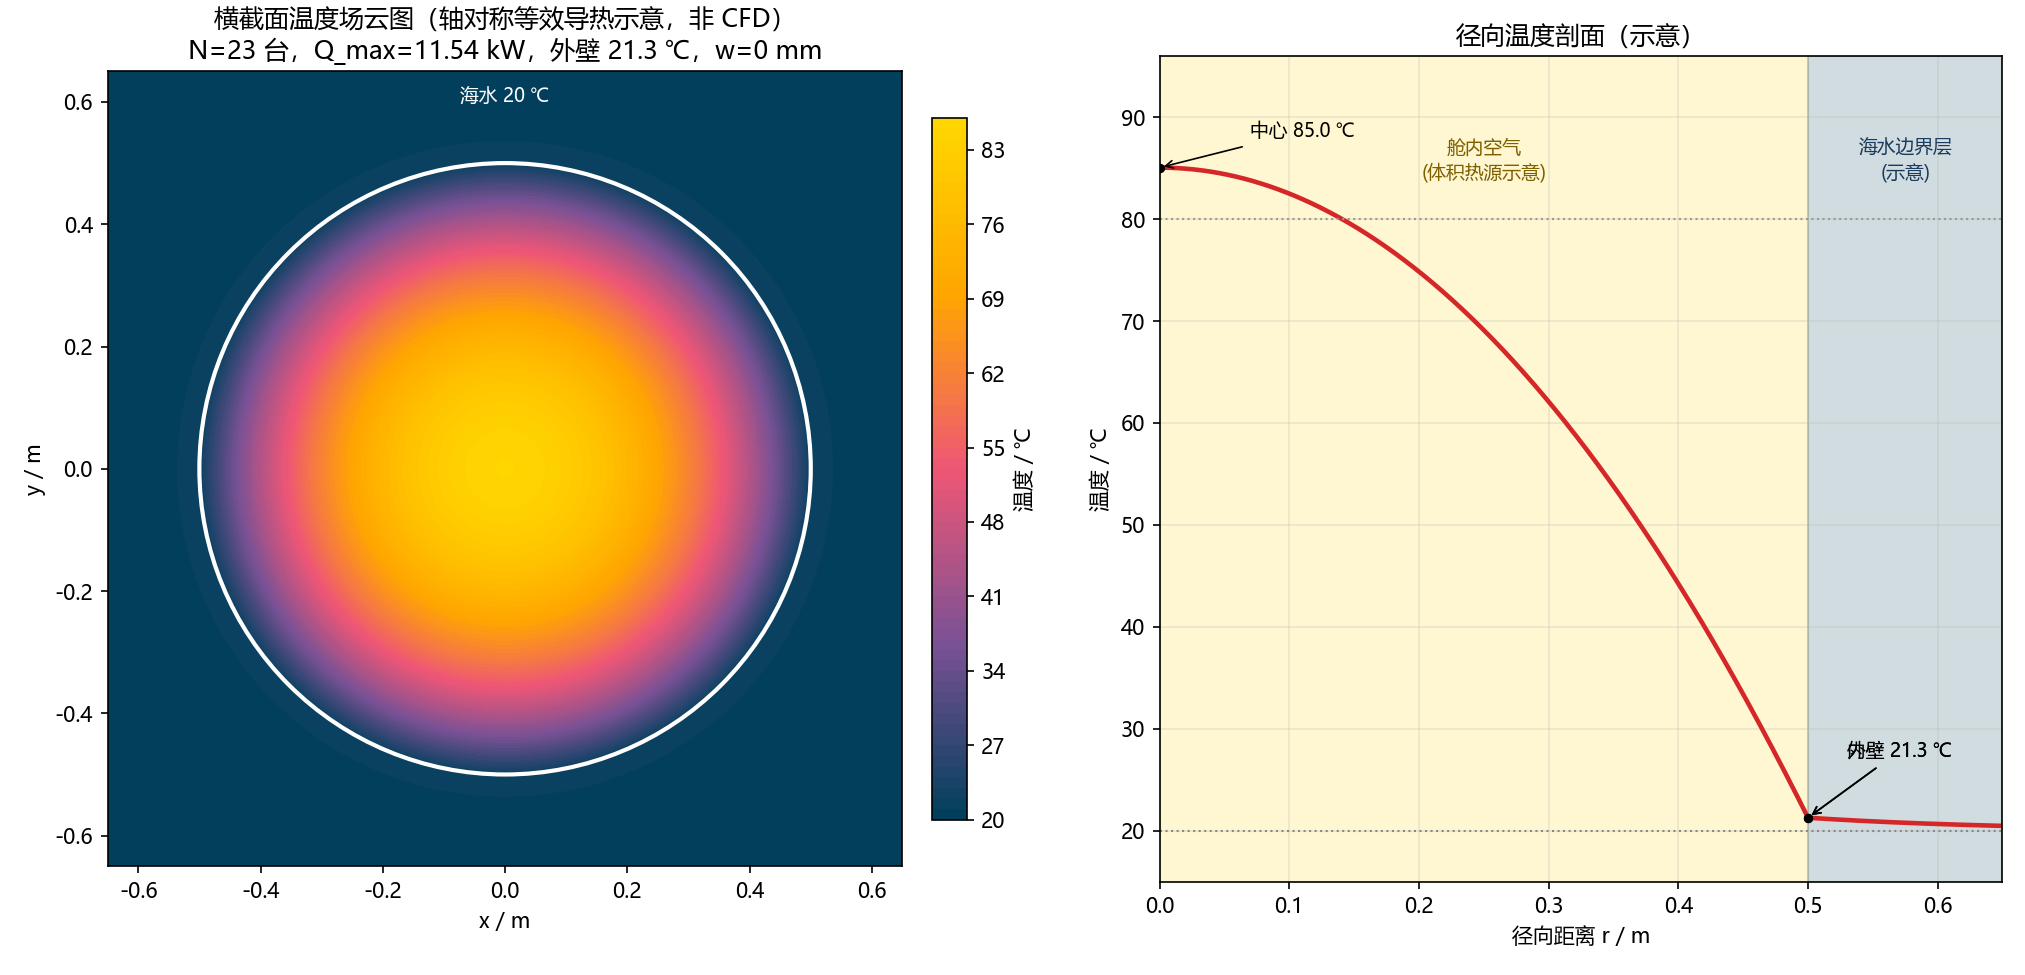
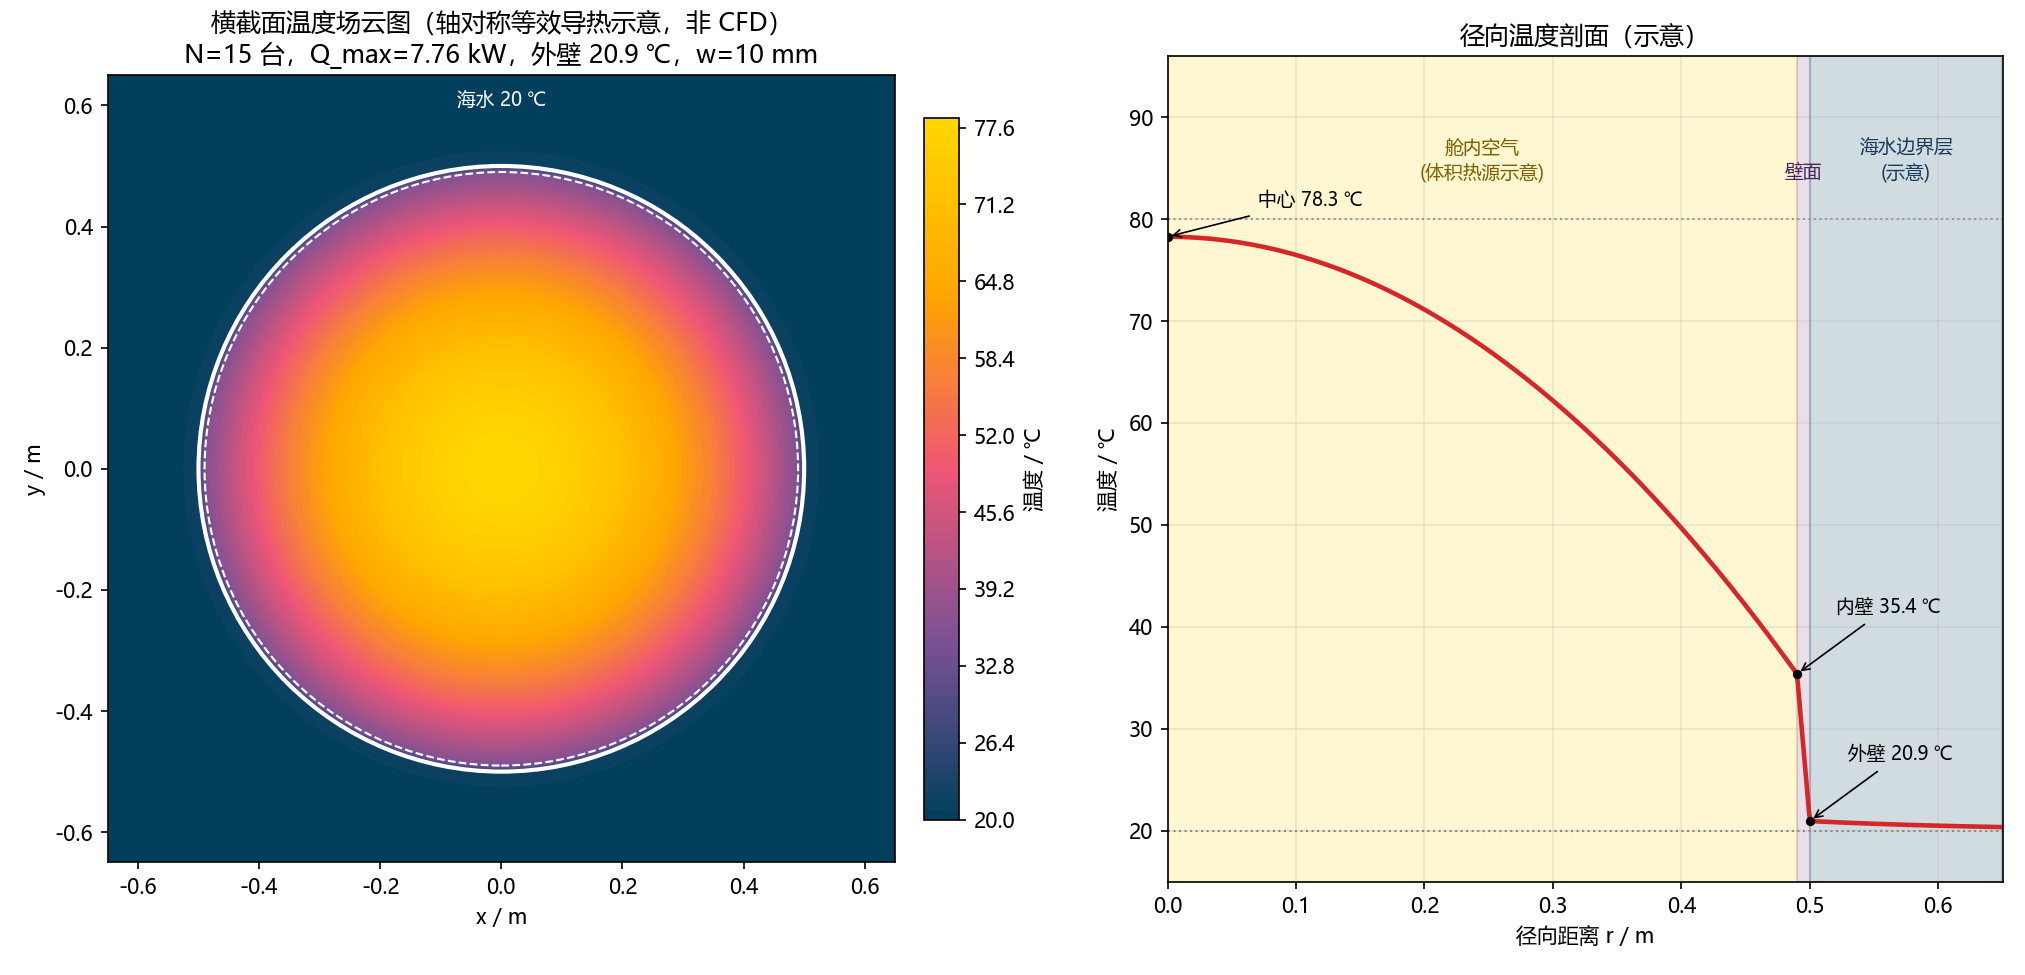
第一次提交

diff --git a/问题一/C题_问题1_服务器散热_整数模型.py b/问题一/C题_问题1_服务器散热_整数模型.py
@@ -23,8 +23,8 @@ C 题 问题 1：单个圆柱集装箱最多可放多少台 1U 服务器
    以及壁厚不确定性场景；同时保留 h_air-h_sea 灵敏度云图。
 6. 输出可运行代码 + Q1_结果.csv + Q1_灵敏度.csv + 云图1/云图2/图3。
 7. 使用相对路径，并自动寻找脚本当前目录。
-8. 基础参数来源仅采用交付清单；壁厚 w 交付清单未给出，问题 1 基准按薄壳 w=0，
-   壁厚影响单独作为灵敏度场景评估。
+8. 基础参数来源仅采用交付清单；壁厚 w 交付清单未给出，按用户确认
+   问题 1 基准采用 w=0.01 m（10 mm），壁厚影响单独作为灵敏度场景评估。
 
 运行：python C题_问题1_服务器散热_整数模型.py
 """
@@ -185,7 +185,7 @@ def load_cleaned_sst_summary() -> dict[str, tuple[float, float] | None]:
 # ---------------------------------------------------------------------------
 D_OUTER = 1.0            # 圆柱外轮廓直径 D，m（交付清单）
 L_OUTER = 12.0           # 圆柱外轮廓长度 L，m（交付清单）
-WALL = 0.0               # 壁厚 w，m（交付清单未给；问题1基准取薄壳，灵敏度单独分析）
+WALL = 0.01              # 壁厚 w，m（交付清单未给；按用户确认基准取 10 mm）
 T_AIR_MAX = 80.0         # 服务器最高允许温度，℃（交付清单）
 T_SEA = 20.0             # 海水恒温 T_inf，℃（交付清单）
 Q0 = 500.0               # 单台 1U 服务器产热，W（交付清单）
@@ -647,7 +647,7 @@ def print_param_sources() -> None:
         ("w_s(1U)", f"{W_SERVER}", "m", "交付清单：482.6 mm"),
         ("l_s(1U)", f"{L_SERVER}", "m", "交付清单：525 mm"),
         ("k_wall(304)", f"{k_wall}", "W/(m·K)", f"清洗后数据：{k_wall_src}"),
-        ("w(壁厚)", f"{WALL}", "m", "交付清单未给；问题1基准取薄壳 w=0，灵敏度单独分析"),
+        ("w(壁厚)", f"{WALL}", "m", "交付清单未给；按用户确认基准取 10 mm，灵敏度单独分析"),
     ]
     for name, value, unit, source in rows:
         print(f"    {name:<12} = {value:<10} {unit:<14} 来源：{source}")
@@ -691,7 +691,7 @@ def build_result_rows(result: dict) -> list[tuple[str, object, str, str, str]]:
     rows: list[tuple[str, object, str, str, str]] = [
         ("外轮廓直径 D", result["d_outer"], "m", "圆柱外径（基体尺寸）", "交付清单"),
         ("外轮廓长度 L", result["l_outer"], "m", "圆柱轴向长度", "交付清单"),
-        ("壁厚 w", result["wall"], "m", "薄壳假设（交付清单未给）", "模型假设"),
+        ("壁厚 w", result["wall"], "m", "用户确认壁厚基准 10 mm", "模型输入"),
         ("内径 D_inner", result["D_inner"], "m", "内部可用直径", "D-2w"),
         ("内长 L_inner", result["L_inner"], "m", "内部可用长度", "L-2w"),
         ("侧表面积 A=πDL", result["A_cyl"], "m^2", "圆柱侧表面散热面积", "步骤1公式"),
@@ -866,8 +866,8 @@ def validate_q1(result: dict) -> bool:
     print("    [说明] 简化假设检验：")
     print("      1) 稳态传热：问题 1 评估的是持续满载工况的散热能力上限，"
           "稳态热平衡假设合理。")
-    print("      2) 壳体温度均匀：基准按薄壳 w=0，内外壁温 T_wi=T_wo，"
-          "壳体温度均匀假设与模型一致。")
+    print("      2) 壳体温度均匀：w=0.01 m 壁厚较小，壁面温度近似均匀，"
+          "模型按壳壁两侧壁温自洽计算。")
     print("      3) 忽略辐射：按题目对流散热口径计算；若计入舱内辐射，"
           "实际散热能力会略高，因此本结果偏保守。")
     print("      4) 海水静止：题面未给流速，Q1 按自然对流；"
@@ -907,8 +907,8 @@ def _n_from_h_perturb(
     return n_theory, n
 
 
-def _check_sensitivity_directions(rows: list[tuple]) -> bool:
-    """校验灵敏度方向：q0/T_sea 增大应降低 N_theory，限温/h 增大应提高，壁厚增大应降低。"""
+def _check_sensitivity_directions(rows: list[tuple], base: dict) -> bool:
+    """校验灵敏度方向：q0/T_sea 增大应降低 N_theory，限温/h 增大应提高，壁厚按基准两侧判断。"""
     print("    灵敏度方向校验：")
     rules = {
         "服务器功率 q0": {"+": -1, "-": +1},
@@ -931,12 +931,22 @@ def _check_sensitivity_directions(rows: list[tuple]) -> bool:
               f"ΔN_theory={rel:+.3f}%（期望方向 {expect:+d}）")
 
     wall_rows = [r for r in rows if r[0] == "壁厚 w"]
-    for name, pert, _, _, _, _, rel, _ in wall_rows:
-        cond = rel < 0
+    base_w = float(base.get("wall", 0.01))
+    for name, pert, value, _, _, _, rel, _ in wall_rows:
+        w = float(value)
+        if abs(w - base_w) < 1e-9:
+            cond = abs(rel) < 0.01
+            note = "基准场景，变化率≈0"
+        elif w < base_w:
+            cond = rel > 0
+            note = "期望正向（壁厚减小）"
+        else:
+            cond = rel < 0
+            note = "期望负向（壁厚增大）"
         ok &= cond
         checked += 1
         print(f"      [{'PASS' if cond else 'FAIL'}] {name} {pert}："
-              f"ΔN_theory={rel:+.3f}%（期望负向）")
+              f"ΔN_theory={rel:+.3f}%（{note}）")
 
     print(f"    灵敏度方向校验：{'PASS' if ok else 'FAIL'}"
           f"（{checked} 组方向均合理）")
@@ -1034,7 +1044,7 @@ def sensitivity_analysis(base: dict) -> list[tuple]:
         print(f"    {name:<18} {pert:<8} {str(value):<10} {unit:<12} "
               f"{n_theory:8.3f} 台  {n:3d} 台  {rel:+8.3f}%")
 
-    _check_sensitivity_directions(rows)
+    _check_sensitivity_directions(rows, base)
     plot_sensitivity(rows)
     return rows
 

diff --git a/问题一/C题_问题1_核心算法.py b/问题一/C题_问题1_核心算法.py
@@ -238,7 +238,7 @@ def compute_final_capacity(n_theory: float, n_space: float) -> dict[str, int]:
     return {"n": n}
 
 
-def solve_q1(D_outer: float = 1.0, L_outer: float = 12.0, wall: float = 0.0,
+def solve_q1(D_outer: float = 1.0, L_outer: float = 12.0, wall: float = 0.01,
              k_wall: float | None = None,
              t_air_max: float = 80.0, t_sea: float = 20.0, q0: float = 500.0,
              w_server: float = 0.4826, h_server: float = 0.04445,
@@ -246,7 +246,7 @@ def solve_q1(D_outer: float = 1.0, L_outer: float = 12.0, wall: float = 0.0,
     """问题 1 主流程：依次调用步骤 1-5，返回全部中间量与最终容量。
 
     输入：D_outer/L_outer 外轮廓尺寸 m，wall 壁厚 m（交付清单未给壁厚，
-          问题 1 基准按薄壳 w=0 处理，壁厚影响单独做灵敏度分析），
+          按用户确认基准取 w=0.01 m，壁厚影响单独做灵敏度分析），
           k_wall 壁面导热系数 W/(m·K)（缺省时自动解析 304 不锈钢），
           t_air_max 允许最高温度 ℃，t_sea 海水温度 ℃，q0 单台产热 W，
           w_server/h_server/l_server 服务器尺寸 m

diff --git a/问题一/算法设计_函数说明.md b/问题一/算法设计_函数说明.md
@@ -35,7 +35,7 @@ solve_q1
 - 输入：
   - `D_outer`：`float`，外轮廓直径，m
   - `L_outer`：`float`，外轮廓长度，m
-  - `wall`：`float`，外壳壁厚，m（交付清单未给，问题 1 基准按薄壳 w=0）
+  - `wall`：`float`，外壳壁厚，m（交付清单未给，问题 1 基准按用户确认取 0.01 m）
 - 输出（`dict[str, float]`）：
   - `D_inner`：内部直径，m
   - `L_inner`：内部可用长度，m
@@ -56,7 +56,7 @@ solve_q1
   - `D_inner`、`L_inner`：内部直径、长度，m
   - `A_out`、`A_in`：外、内换热面积，m²
   - `k_wall`：壁面导热系数，W/(m·K)
-  - `wall`：壁厚，m（问题 1 基准取 0，壁厚影响在灵敏度中单独分析）
+  - `wall`：壁厚，m（问题 1 基准取 0.01 m，壁厚影响在灵敏度中单独分析）
   - `t_air_max`：服务器允许最高温度，℃
   - `t_sea`：海水温度，℃
   - `max_iter`：最大迭代次数，默认 60
@@ -132,27 +132,27 @@ solve_q1
   - `w_server=0.4826`，`h_server=0.04445`，`l_server=0.525`，单位 m
 - 输出（`dict`）：合并以上各函数的全部输出键，另加 `k_wall`。
 
-## 三、默认工况计算结果（薄壳 w=0，交付清单未给壁厚）
+## 三、默认工况计算结果（w=0.01 m，交付清单未给壁厚，按用户确认）
 
 | 指标 | 数值 | 单位 |
 |---|---|---|
 | A（圆柱侧表面积 πDL） | 37.699 | m² |
-| h_air | 5.00 | W/(m²·K) |
-| h_sea | 232.1 | W/(m²·K) |
-| h_total | 4.90 | W/(m²·K) |
-| Q_max | 11542 | W |
-| N_theory | 23.08 | 台 |
-| N_space | 836.86 | 台 |
-| N | 23 | 台 |
+| h_air | 4.53 | W/(m²·K) |
+| h_sea | 210.5 | W/(m²·K) |
+| h_total | 3.29 | W/(m²·K) |
+| Q_max | 7761 | W |
+| N_theory | 15.52 | 台 |
+| N_space | 802.38 | 台 |
+| N | 15 | 台 |
 
 ## 四、代码验证
 
 ```text
 步骤 1  A = πDL = 37.6991 m^2，A_eff = 39.2699 m^2
-步骤 2  h_air = 5.00，h_sea = 232.1，h_total = 4.90 W/(m^2·K)
-        壁温 T_wi = 21.3 ℃，T_wo = 21.3 ℃
-步骤 3  Q_max = 11542 W，N_theory = 23.08 台
-步骤 4  N_space = 836.86 台
-步骤 5  N = 23 台
+步骤 2  h_air = 4.53，h_sea = 210.5，h_total = 3.29 W/(m^2·K)
+        壁温 T_wi = 35.4 ℃，T_wo = 20.9 ℃
+步骤 3  Q_max = 7761 W，N_theory = 15.52 台
+步骤 4  N_space = 802.38 台
+步骤 5  N = 15 台
 自检：Q_max=11309.73 W，N_theory=22.62 台，N=22 台 -> PASS
 ```

diff --git a/问题一/1.检验.md b/问题一/1.检验.md
@@ -7,7 +7,7 @@
    Churchill-Chu 关联式的适用范围内。
 4. 解析基准：固定 `h=5 W/(m²·K)` 手算 `Q_max=11309.73 W`，
    得到 `N=22`，与模型输出对比。
-5. 简化假设：输出稳态传热、薄壳温度均匀、忽略辐射、海水静止的
+5. 简化假设：输出稳态传热、w=0.01 m 壁面温度近似均匀、忽略辐射、海水静止的
    适用边界与风险说明。
 6. 参数敏感性：对海水温度、限温、h_air、h_sea、q0、k_wall 做
    ±5%/±10% 扰动，并对灵敏度方向做合理性校验；壁厚单独做场景分析。
@@ -34,12 +34,12 @@
 **3. 物性与换热系数合理性检查**
 
 - 海水物性范围：`rho ≈ 1024~1027 kg/m³`、`k ≈ 0.59~0.60 W/(m·K)`、`mu ≈ 1.0~1.1e-3 Pa·s`、`Pr ≈ 6~8`。
-- 换热系数合理范围：`h_air` 一般约 `2~10`，`h_sea` 约 `50~500 W/(m²·K)`，当前结果 `h_air≈5.0`、`h_sea≈232` 符合。
+- 换热系数合理范围：`h_air` 一般约 `2~10`，`h_sea` 约 `50~500 W/(m²·K)`，当前结果 `h_air≈4.5`、`h_sea≈210` 符合。
 - 综合系数应满足 `h_total < min(h_air, h_sea)`，因为热阻串联。
 
 **4. 壁温与温度约束检查**
 
-- 必须满足 `T_sea < T_wo ≤ T_wi < T_air_max`。薄壳 w=0 时内外壁温相等，当前结果 `20 < 21.3 ≈ 21.3 < 80`，符合。
+- 必须满足 `T_sea < T_wo < T_wi < T_air_max`。w=0.01 m 时当前结果 `20 < 20.9 < 35.4 < 80`，符合。
 - 壁温自洽迭代残差应小于容差（当前 `tol=1e-6`，可打印迭代是否收敛、用了多少步）。
 
 **5. 容量逻辑与异常判定检查**
